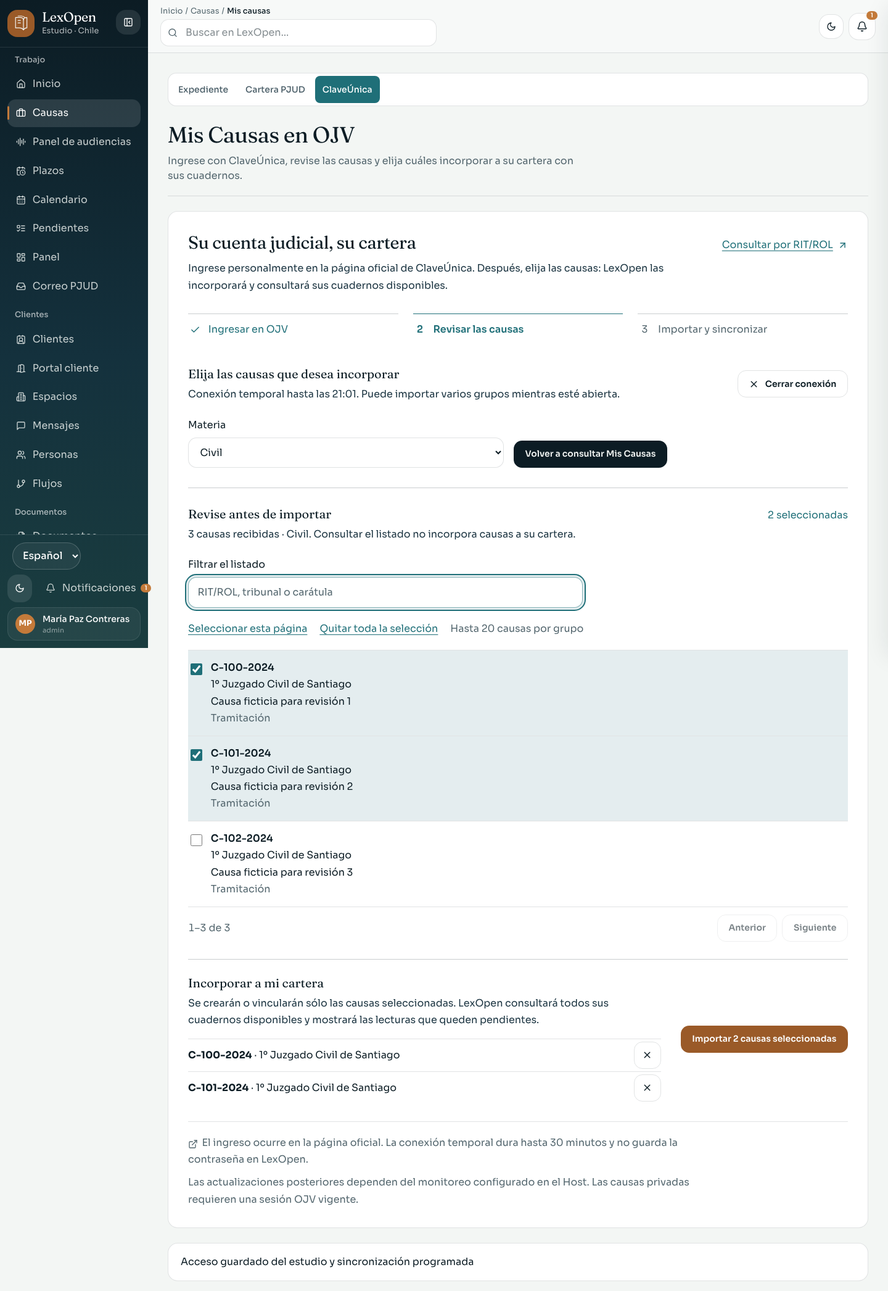
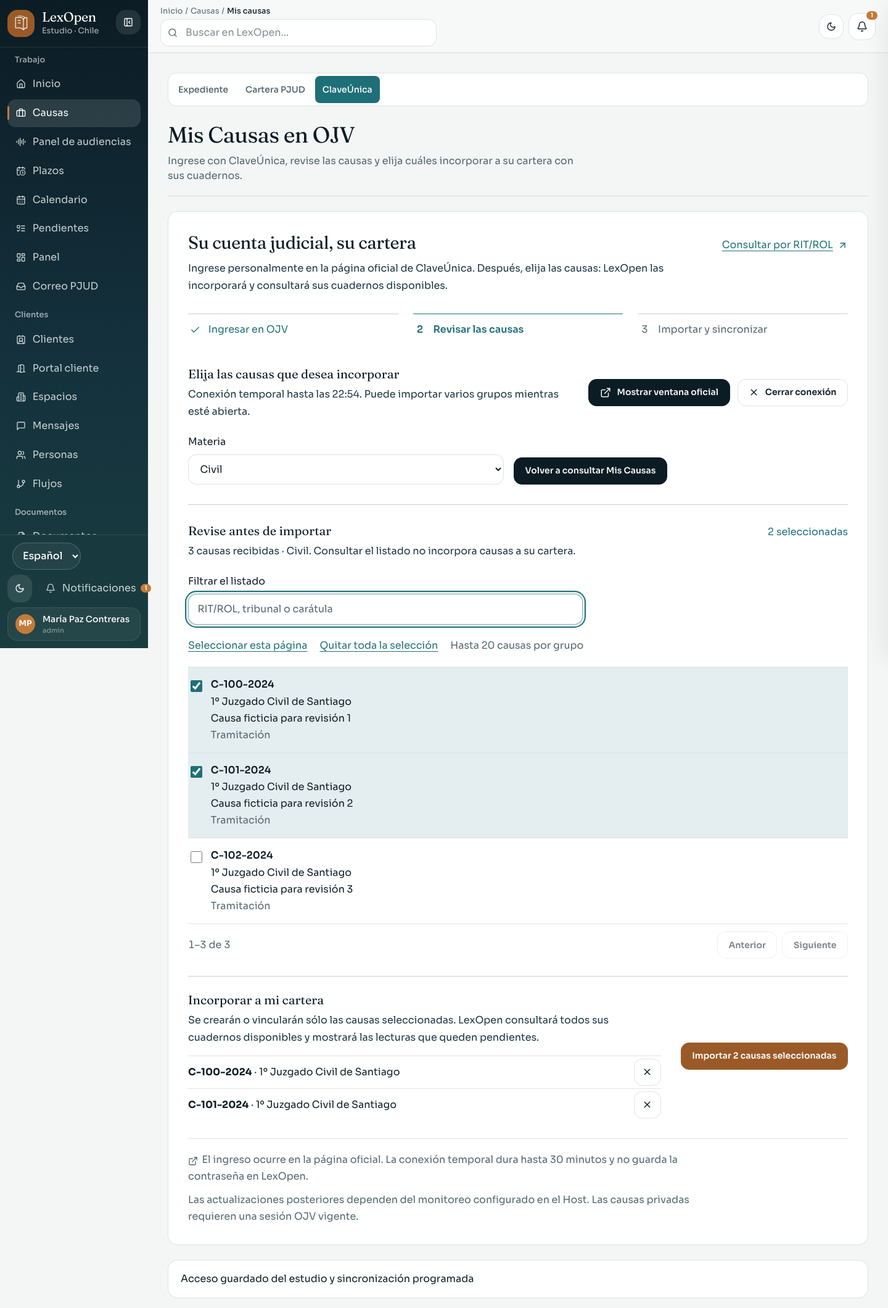
feat(pjud): reveal the official manual-session window safely

diff --git a/src/lib/pjud/manual-session-manager.test.ts b/src/lib/pjud/manual-session-manager.test.ts
@@ -16,11 +16,12 @@ const pause = (ms = 0) => new Promise(resolve => setTimeout(resolve, ms));
 async function until(check: () => boolean) { const end = Date.now() + 2_000; while (!check()) { assert(Date.now() < end, "fixture deadline"); await pause(5); } }
 
 function fixture() {
-  let closed = false, authenticated = true, factoryCalls = 0, closeCalls = 0, listCalls = 0, detailCalls = 0, syncCalls = 0, allowed = true;
+  let closed = false, authenticated = true, factoryCalls = 0, closeCalls = 0, listCalls = 0, detailCalls = 0, syncCalls = 0, focusCalls = 0, allowed = true;
   let current = fixtures.map(row => ({ ...row }));
   const browser: ManualOjvSession = {
     status: () => ({ phase: closed ? "closed" : authenticated ? "authenticated" : "waiting-login", authenticated: !closed && authenticated, channel: "chromium", createdAt: new Date().toISOString(), authenticatedAt: new Date().toISOString(), pageUrl: "https://oficinajudicialvirtual.pjud.cl/indexN.php" }),
     waitForAuthentication: async () => { authenticated = true; return browser.status(); },
+    showOfficialWindow: async () => { focusCalls++; },
     listMisCausas: async () => { listCalls++; return current.map(row => ({ ...row })); },
     fetchCausaDetail: async () => { detailCalls++; return { movimientos: [], sala: null, note: "Fictitious detail", portalUrl: "https://oficinajudicialvirtual.pjud.cl/indexN.php", cuadernos: coverage }; },
     close: async () => { closed = true; closeCalls++; },
@@ -51,7 +52,7 @@ function fixture() {
     runtimeAllowed: () => true,
     monitorMs: 10,
   } satisfies Partial<ConstructorParameters<typeof ManualOjvSessionManager>[0]>;
-  return { browser, deps, current: (value: MisCausasItem[]) => { current = value; }, expireAuthentication: () => { authenticated = false; }, revoke: () => { allowed = false; }, factoryCalls: () => factoryCalls, closeCalls: () => closeCalls, listCalls: () => listCalls, detailCalls: () => detailCalls, syncCalls: () => syncCalls };
+  return { browser, deps, current: (value: MisCausasItem[]) => { current = value; }, expireAuthentication: () => { authenticated = false; }, revoke: () => { allowed = false; }, factoryCalls: () => factoryCalls, closeCalls: () => closeCalls, listCalls: () => listCalls, detailCalls: () => detailCalls, syncCalls: () => syncCalls, focusCalls: () => focusCalls };
 }
 
 async function main() {
@@ -85,20 +86,29 @@ async function main() {
     assert.equal((await manager.status(owner))?.phase, "ready");
     assert.doesNotMatch(JSON.stringify(await manager.status(owner)), /PRIVATE_COOKIE|fingerprint|pageUrl|password/);
     await assert.rejects(manager.status(other, start.session.id), statusError(404));
+    await assert.rejects(manager.focus(other, start.session.id), statusError(404));
+    await assert.rejects(manager.focus({ ...owner, fingerprint: "different-authentication" }, start.session.id), statusError(404));
+    assert.equal(f.focusCalls(), 0, "another owner must never activate this session's window");
     await assert.rejects(manager.start(other), statusError(409));
     const both = await Promise.allSettled([manager.list(owner, start.session.id, ["Civil"]), manager.list(owner, start.session.id, ["Civil"])]);
     assert.equal(both.filter(result => result.status === "fulfilled").length, 1, "only one operation can reserve a shared page");
     const listing = both.find(result => result.status === "fulfilled")! as PromiseFulfilledResult<Awaited<ReturnType<typeof manager.list>>>;
+    await assert.rejects(manager.focus(owner, start.session.id), statusError(409));
     await listing.value.run();
     const listed = (await manager.status(owner))!;
     assert(listed.listedAt); assert.equal(listed.candidates.length, 2);
     const originalId = listed.candidates[0].id;
+    assert.deepEqual(await manager.focus(owner, start.session.id), listed, "focus preserves candidates, result, phase and expiration");
+    assert.equal(f.focusCalls(), 1);
     listed.candidates[0].rit = "MUTATED";
     assert.equal((await manager.status(owner))!.candidates[0].rit, fixtures[0].rit, "HTTP views must not mutate the server allowlist");
     await assert.rejects(manager.import(owner, start.session.id, ["unseen-client-id"]), statusError(400));
     await assert.rejects(manager.import(owner, start.session.id, [originalId, originalId]), statusError(400));
     assert.equal(f.syncCalls(), 0);
-    const imported = await manager.import(owner, start.session.id, [originalId]); await imported.run();
+    const imported = await manager.import(owner, start.session.id, [originalId]);
+    await assert.rejects(manager.focus(owner, start.session.id), statusError(409));
+    assert.equal(f.focusCalls(), 1, "listing and import reservations block focus");
+    await imported.run();
     const done = (await manager.status(owner))!;
     assert.equal(done.phase, "completed"); assert.equal(done.result?.created, 1); assert.deepEqual(done.result?.items[0].cuadernosCoverage, coverage);
     assert.equal(f.detailCalls(), 1); assert.equal(f.listCalls(), 2, "import must refresh the OJV list rather than trust an old candidate");
@@ -142,6 +152,41 @@ async function main() {
     await delayed.close(owner, start.session.id); release(opening.browser); await run;
     assert.equal(opening.closeCalls(), 1, "a browser that completes launch after cancellation must also close");
   } finally { await delayed.dispose(); }
+
+  const waiting = fixture(); waiting.expireAuthentication(); let releaseAuthentication!: () => void;
+  waiting.browser.waitForAuthentication = () => new Promise(resolve => { releaseAuthentication = () => resolve({ ...waiting.browser.status(), phase: "authenticated", authenticated: true }); });
+  const waitingManager = new ManualOjvSessionManager(waiting.deps);
+  try {
+    const start = await waitingManager.start(owner); const running = start.run(); await until(() => Boolean(releaseAuthentication));
+    const before = await waitingManager.status(owner);
+    let timeout: ReturnType<typeof setTimeout> | undefined;
+    try {
+      const shown = await Promise.race([waitingManager.focus(owner, start.session.id), new Promise<never>((_, reject) => { timeout = setTimeout(() => reject(new Error("focus was blocked by authentication")), 1_000); })]);
+      assert.deepEqual(shown, before, "showing a pending login neither authenticates nor extends its lifetime");
+    } finally { if (timeout) clearTimeout(timeout); }
+    assert.equal(waiting.focusCalls(), 1); assert.equal(waiting.factoryCalls(), 1);
+    releaseAuthentication(); await running;
+  } finally { await waitingManager.dispose(); }
+
+  const legacy = fixture(); delete legacy.browser.showOfficialWindow;
+  const legacyManager = new ManualOjvSessionManager(legacy.deps);
+  try {
+    const start = await legacyManager.start(owner); await start.run();
+    const before = await legacyManager.status(owner);
+    await assert.rejects(legacyManager.focus(owner, start.session.id), error => error instanceof ManualOjvUiError && error.status === 503 && /Vuelva a abrir LexOpen/.test(error.message));
+    assert.deepEqual(await legacyManager.status(owner), before, "an old session remains intact after an unsupported focus request");
+    assert.equal(legacy.closeCalls(), 0);
+  } finally { await legacyManager.dispose(); }
+
+  const focusFailure = fixture(); focusFailure.browser.showOfficialWindow = async () => { throw new Error("PRIVATE_UNSAFE_BROWSER_URL_AND_TOKEN"); };
+  const failureManager = new ManualOjvSessionManager(focusFailure.deps);
+  try {
+    const start = await failureManager.start(owner); await start.run();
+    await assert.rejects(failureManager.focus(owner, start.session.id), error => error instanceof ManualOjvUiError && error.status === 409 && !/PRIVATE/.test(error.message));
+    assert.equal(focusFailure.closeCalls(), 0, "a focus failure must not discard a usable login");
+    focusFailure.revoke();
+    await assert.rejects(failureManager.focus(owner, start.session.id), statusError(403));
+  } finally { await failureManager.dispose(); }
   console.log("Manual OJV manager: owner isolation, fresh allowlists, serial operations, repeat batches, revocation, expiry, cancellation and per-operation policy passed (fixtures only).");
 }
 main().catch(error => { console.error(error); process.exitCode = 1; });

diff --git a/src/lib/pjud/manual-session.dom.test.ts b/src/lib/pjud/manual-session.dom.test.ts
@@ -1,6 +1,6 @@
 /** Owned browser fixtures only. Every request is fulfilled locally; no credentials or OJV traffic. */
 import assert from "node:assert/strict";
-import { chromium } from "playwright";
+import { chromium, type Page } from "playwright";
 import { createManualOjvSession, ManualOjvSessionError } from "@/lib/pjud/manual-session";
 import { OJV_INDEX_N } from "@/lib/pjud/ojv-dom";
 import type { PjudCausaRef } from "@/lib/pjud/types";
@@ -38,8 +38,13 @@ async function fixture(emptyLogin = false, menuDelayMs = 0) {
   const context = await browser.newContext();
   let accountsVisits = 0;
   let documentRequests = 0;
+  const focusedPages: Page[] = [];
   const scriptErrors: string[] = [];
-  context.on("page", page => page.on("pageerror", error => scriptErrors.push(error.message)));
+  context.on("page", page => {
+    page.on("pageerror", error => scriptErrors.push(error.message));
+    const show = page.bringToFront.bind(page);
+    page.bringToFront = async () => { focusedPages.push(page); await show(); };
+  });
   await context.route("**/*", async route => {
     const url = new URL(route.request().url());
     if (url.pathname.endsWith(".pdf")) documentRequests += 1;
@@ -49,7 +54,7 @@ async function fixture(emptyLogin = false, menuDelayMs = 0) {
       ? emptyLogin ? '<h1>PJUD</h1>' : '<h1>PJUD</h1><input name="run"><input type="password" placeholder="Ingresa tu ClaveÚnica">'
       : '<h1>OJV</h1><script>function AutenticaCUnica(){location.href="https://accounts.claveunica.gob.cl/accounts/login/?next=PRIVATE_OIDC#PRIVATE"}</script>' });
   });
-  return { browser, context, owned: { browser, context, channel: "chromium" as const }, accountsVisits: () => accountsVisits, documentRequests: () => documentRequests, scriptErrors: () => scriptErrors };
+  return { browser, context, owned: { browser, context, channel: "chromium" as const }, accountsVisits: () => accountsVisits, documentRequests: () => documentRequests, scriptErrors: () => scriptErrors, focusedPages: () => [...focusedPages] };
 }
 
 async function main() {
@@ -154,6 +159,53 @@ async function main() {
     } finally {
       await delayed.close();
     }
+
+    const focusFixture = await fixture();
+    const focusSession = await createManualOjvSession({ optedIn: true, loginTimeoutMs: 5_000 }, { createOwnedContext: async () => focusFixture.owned });
+    try {
+      const page = focusFixture.context.pages()[0];
+      assert.deepEqual(focusFixture.focusedPages(), [page], "the ready official form is activated when its owned session opens");
+      const waiting = focusSession.waitForAuthentication();
+      let timeout: ReturnType<typeof setTimeout> | undefined;
+      try {
+        await Promise.race([focusSession.showOfficialWindow!(), new Promise<never>((_, reject) => { timeout = setTimeout(() => reject(new Error("focus queued behind authentication")), 1_500); })]);
+      } finally { if (timeout) clearTimeout(timeout); }
+      assert.equal(focusSession.status().phase, "waiting-login");
+      assert.equal(focusSession.status().authenticated, false, "activating an official tab is not authentication");
+      assert.equal(focusFixture.accountsVisits(), 1, "focus must not open another login or navigate");
+      await page.goto(OJV_INDEX_N); await waiting;
+      const items = await focusSession.listMisCausas({ materias: ["Corte Suprema"], responseTimeoutMs: 500 });
+      const before = focusSession.status(); await focusSession.showOfficialWindow!();
+      assert.deepEqual(focusSession.status(), before, "focus preserves the authenticated session and its creation time");
+      assert.equal((await focusSession.fetchCausaDetail(cause)).movimientos.length, 1, "focus preserves the checked cause allowlist");
+      assert.equal(items.length, 1); assert.equal(focusFixture.documentRequests(), 0);
+      // An unrelated page is never activated, even when it is the newest tab.
+      const unrelated = await focusFixture.context.newPage(); await unrelated.goto("https://unrelated.invalid");
+      await focusSession.showOfficialWindow!();
+      assert.equal(focusFixture.focusedPages().at(-1), page);
+      await page.goto("https://unrelated.invalid");
+      const focused = focusFixture.focusedPages().length;
+      await assert.rejects(focusSession.showOfficialWindow!(), error => error instanceof ManualOjvSessionError && error.code === "window-unavailable");
+      assert.equal(focusFixture.focusedPages().length, focused, "a context without an official page must not fall back to another site");
+    } finally { await focusSession.close(); }
+    await assert.rejects(focusSession.showOfficialWindow!(), error => error instanceof ManualOjvSessionError && error.code === "session-closed");
+
+    const returningFixture = await fixture();
+    const returningSession = await createManualOjvSession({ optedIn: true }, { createOwnedContext: async () => returningFixture.owned });
+    try {
+      const login = returningFixture.context.pages()[0];
+      const callback = await returningFixture.context.newPage(); await callback.goto(OJV_INDEX_N);
+      await returningSession.waitForAuthentication();
+      await returningSession.listMisCausas({ materias: ["Corte Suprema"], responseTimeoutMs: 500 });
+      await returningSession.showOfficialWindow!();
+      assert.equal(returningFixture.focusedPages().at(-1), callback, "the identified callback wins while it remains authenticated");
+      await callback.locator('a[href="#infousuario"]').evaluate(node => { node.textContent = "Invitado"; });
+      const before = returningSession.status();
+      await returningSession.showOfficialWindow!();
+      assert.equal(returningFixture.focusedPages().at(-1), login, "an old OJV guest page must not obscure the owned login form");
+      assert.deepEqual(returningSession.status(), before, "choosing a visible window never changes authentication or its lifetime");
+      assert.equal(returningFixture.accountsVisits(), 1); assert.equal(returningFixture.documentRequests(), 0);
+    } finally { await returningSession.close(); }
 
     const timeoutFixture = await fixture();
     const timed = await createManualOjvSession({ optedIn: true, loginTimeoutMs: 100 }, { createOwnedContext: async () => timeoutFixture.owned });

diff --git a/src/lib/pjud/manual-session.ts b/src/lib/pjud/manual-session.ts
@@ -20,12 +20,13 @@ import type { MisCausasItem, PjudCausaRef } from "@/lib/pjud/types";
 import { withManualPjudInteraction } from "@/lib/pjud/manual-interaction-policy";
 
 type SessionPhase = "waiting-login" | "waiting-user-confirmation" | "authenticated" | "closed";
-type ErrorCode = "disabled" | "manual-policy-required" | "login-unavailable" | "not-authenticated" | "login-timeout" | "operation-timeout" | "session-closed" | "aborted" | "action-failed" | "cause-not-listed" | "invalid-materias" | "result-limit";
+type ErrorCode = "disabled" | "manual-policy-required" | "login-unavailable" | "window-unavailable" | "not-authenticated" | "login-timeout" | "operation-timeout" | "session-closed" | "aborted" | "action-failed" | "cause-not-listed" | "invalid-materias" | "result-limit";
 
 const messages: Record<ErrorCode, string> = {
   disabled: "La consulta OJV de esta sesión está deshabilitada.",
   "manual-policy-required": "La validación requiere confirmaciones y CAPTCHA manuales, con las descargas de documentos desactivadas.",
   "login-unavailable": "No se pudo abrir el formulario oficial de ClaveÚnica para esta sesión temporal.",
+  "window-unavailable": "No se pudo activar la ventana oficial de esta conexión. Vuelva a intentarlo o abra una nueva conexión.",
   "not-authenticated": "Complete el ingreso manual y regrese a Mis Causas antes de continuar.",
   "login-timeout": "Terminó el tiempo disponible para completar el ingreso manual.",
   "operation-timeout": "La lectura OJV no terminó dentro del tiempo disponible.",
@@ -96,6 +97,8 @@ export type ManualOjvSessionStatus = {
 
 export type ManualOjvSession = {
   status(): ManualOjvSessionStatus;
+  /** Optional for an already open session created before a Host development reload. */
+  showOfficialWindow?(): Promise<void>;
   waitForAuthentication(): Promise<ManualOjvSessionStatus>;
   listMisCausas(options?: Pick<MisCausasReadOptions, "materias" | "responseTimeoutMs">): Promise<MisCausasItem[]>;
   fetchCausaDetail(causa: PjudCausaRef, options?: Pick<MisCausasReadOptions, "materias" | "responseTimeoutMs">): Promise<ScrapeLookupResult>;
@@ -221,6 +224,22 @@ class OwnedManualSession implements ManualOjvSession {
     if (this.phase === "closed") throw new ManualOjvSessionError("session-closed");
   }
 
+  /** Focusing must not wait behind a pending manual login in the read queue. */
+  async showOfficialWindow() {
+    this.active();
+    const pages = this.owned.context.pages();
+    const official = (page: Page) => !page.isClosed() && (isOjvSessionUrl(page.url()) || isClaveUnicaAccountsUrl(page.url()));
+    const authenticated = this.authenticatedPage && pages.includes(this.authenticatedPage) && official(this.authenticatedPage) && await identifiedPage(this.authenticatedPage) ? this.authenticatedPage : null;
+    this.active();
+    const preferred = authenticated || (pages.includes(this.loginPage) && official(this.loginPage) ? this.loginPage : null);
+    const page = preferred || [...pages].reverse().find(official);
+    if (!page) throw new ManualOjvSessionError("window-unavailable");
+    try { await page.bringToFront(); }
+    catch { throw new ManualOjvSessionError("window-unavailable"); }
+    this.active();
+    if (!official(page)) throw new ManualOjvSessionError("window-unavailable");
+  }
+
   private async serial<T>(work: () => Promise<T>, timeout: number, timeoutCode: "login-timeout" | "operation-timeout", operation?: SessionReadOperation): Promise<T> {
     const pending = this.queue.then(async () => {
       let timer: ReturnType<typeof setTimeout> | undefined;
@@ -338,6 +357,7 @@ async function createManualOjvSessionOwned(options: ManualOjvSessionOptions, dep
     }
     if (!formReady) throw new ManualOjvSessionError("login-unavailable");
     assertRuntime(options);
+    await session.showOfficialWindow();
     return session;
   } catch (error) {
     if (session) await session.close();

diff --git a/src/components/pjud/PjudManualSessionPanel.tsx b/src/components/pjud/PjudManualSessionPanel.tsx
@@ -129,7 +129,7 @@ export function PjudManualSessionPanel() {
     };
   }, []);
 
-  async function act(action: "start" | "list" | "import" | "close") {
+  async function act(action: "start" | "list" | "import" | "focus" | "close") {
     if (pending.current) return;
     if (action === "import" && (!selected.size || selected.size > (data?.capabilities.importLimit ?? 20))) return;
     const controller = new AbortController();
@@ -163,6 +163,7 @@ export function PjudManualSessionPanel() {
   const connectionOpen = Boolean(session && session.phase !== "closed");
   const canResume = Boolean(connectionOpen && !session?.authenticated && (session?.phase === "error" || session?.phase === "completed"));
   const backgroundBusy = session?.phase === "opening" || session?.phase === "listing" || session?.phase === "importing";
+  const canShowWindow = connectionOpen && !backgroundBusy;
   const canRead = Boolean(session?.authenticated && !backgroundBusy && session.phase !== "closed");
   const limit = data?.capabilities.importLimit ?? 20;
   const pageSize = Math.max(1, Math.min(limit, 20));
@@ -234,12 +235,13 @@ export function PjudManualSessionPanel() {
         <div className="pjud-manual-connection-copy"><h3>{phaseLabel(session)}</h3>
           {!connectionOpen && <p>La contraseña se escribe sólo en ClaveÚnica. Esta conexión temporal permite revisar las causas antes de incorporarlas al estudio.</p>}
           {session?.phase === "opening" && <p>Se está preparando una ventana del navegador en este equipo. Espere a que aparezca el formulario con el encabezado PJUD.</p>}
-          {awaitingUser && <p>Continúe en la ventana oficial con el encabezado PJUD. Complete allí su identificación y cualquier confirmación del portal. LexOpen detectará su regreso a la OJV.</p>}
+          {awaitingUser && <p>Continúe en la ventana temporal abierta por LexOpen, distinta de su navegador habitual, con el encabezado PJUD. Complete allí su identificación y cualquier confirmación del portal. El ingreso dispone de hasta 15 minutos. LexOpen detectará su regreso a la OJV.</p>}
           {canRead && <p>Conexión temporal{expires && !Number.isNaN(expires.getTime()) ? ` hasta las ${expires.toLocaleTimeString("es-CL", { hour: "2-digit", minute: "2-digit", hourCycle: "h23", timeZone: "America/Santiago" })}` : ""}. Puede importar varios grupos mientras esté abierta.</p>}
           {session?.error && <p className="pjud-manual-error" role="alert">{session.error}</p>}
         </div>
         <div className="pjud-manual-actions">
           {(!connectionOpen || canResume) && <button className="btn btn-primary" type="button" disabled={!canStart || Boolean(busy) || loading} onClick={() => void act("start")}><LogIn size={18} aria-hidden="true" />{busy === "start" ? "Preparando ingreso…" : canResume ? "Reanudar ingreso con ClaveÚnica" : "Ingresar con ClaveÚnica"}</button>}
+          {canShowWindow && <button className="btn btn-secondary" type="button" disabled={!canStart || Boolean(busy) || loading} onClick={() => void act("focus")}><ExternalLink size={18} aria-hidden="true" />{busy === "focus" ? "Mostrando ventana…" : "Mostrar ventana oficial"}</button>}
           {connectionOpen && <button className="btn btn-ghost" type="button" disabled={Boolean(busy)} onClick={() => void act("close")}><X size={17} aria-hidden="true" />{session?.phase === "importing" ? "Detener y cerrar conexión" : "Cerrar conexión"}</button>}
         </div>
       </div>

diff --git a/src/lib/pjud/manual-session-request.test.ts b/src/lib/pjud/manual-session-request.test.ts
@@ -2,6 +2,7 @@ import assert from "node:assert/strict";
 import { randomUUID } from "node:crypto";
 import { NextRequest } from "next/server";
 import { manualOjvLocalRequest, manualOjvQuerySession, parseManualOjvRequest } from "@/lib/pjud/manual-session-request";
+import { POST } from "@/app/api/pjud/manual-session/route";
 
 function request(body: unknown) { return new Request("http://localhost:3000/api/pjud/manual-session", { method: "POST", headers: { host: "localhost:3000", origin: "http://localhost:3000", "content-type": "application/json" }, body: JSON.stringify(body) }); }
 async function main() {
@@ -15,15 +16,21 @@ async function main() {
   assert.equal(manualOjvLocalRequest(new Request("http://localhost:3000/api/pjud/manual-session", { headers: { host: "localhost:3000", "sec-fetch-site": "cross-site" } })), false);
   assert.equal(manualOjvLocalRequest(new Request("http://[::1]:3000/api/pjud/manual-session", { headers: { host: "[::1]:3000", referer: "http://[::1]:3000/causas/mis-causas" } })), true);
   assert.deepEqual(await parseManualOjvRequest(request({ action: "start" })), { action: "start" });
+  assert.deepEqual(await parseManualOjvRequest(request({ action: "focus", sessionId: id })), { action: "focus", sessionId: id });
   assert.deepEqual(await parseManualOjvRequest(request({ action: "list", sessionId: id, materias: ["Civil"] })), { action: "list", sessionId: id, materias: ["Civil"] });
   for (const body of [
     { action: "start", password: "PRIVATE_PASSWORD" }, { action: "start", cookies: [] },
+    { action: "focus" }, { action: "focus", sessionId: "not-a-uuid" },
+    { action: "focus", sessionId: id, url: "https://external.invalid" },
+    { action: "focus", sessionId: id, cookies: [] },
     { action: "import", sessionId: id, candidateIds: [randomUUID()], html: "PRIVATE_HTML" },
     { action: "import", sessionId: id, candidateIds: [id, id] },
     { action: "list", sessionId: id, materias: ["arbitrary"] },
     { action: "import", sessionId: id, candidateIds: Array.from({ length: 21 }, () => randomUUID()) },
     { action: "sync", sessionId: id, causaId: "arbitrary-database-id" },
   ]) await assert.rejects(parseManualOjvRequest(request(body)));
+  const crossOrigin = await POST(new NextRequest("http://localhost:3000/api/pjud/manual-session", { method: "POST", headers: { host: "localhost:3000", origin: "https://external.invalid", "content-type": "application/json" }, body: JSON.stringify({ action: "focus", sessionId: id }) }));
+  assert.equal(crossOrigin.status, 403, "the focus mutation must reject CSRF before authentication or database access");
   const stream = new ReadableStream<Uint8Array>({ start(controller) { controller.enqueue(new TextEncoder().encode("x".repeat(16_385))); controller.close(); } });
   await assert.rejects(parseManualOjvRequest(new Request("http://localhost:3000/api/pjud/manual-session", { method: "POST", body: stream, duplex: "half" } as RequestInit)), (error: unknown) => Boolean(error && typeof error === "object" && "status" in error && error.status === 413));
   assert.equal(manualOjvQuerySession(new Request(`http://localhost/api/pjud/manual-session?sessionId=${id}`)), id);

diff --git a/src/lib/pjud/manual-session-manager.ts b/src/lib/pjud/manual-session-manager.ts
@@ -154,6 +154,22 @@ export class ManualOjvSessionManager {
     return this.snapshot(record);
   }
 
+  async focus(owner: ManualOjvOwner, id: string) {
+    const record = await this.owned(owner, id);
+    if (!record || record.view.phase === "closed" || !record.browser) throw new ManualOjvUiError("La conexión temporal no tiene una ventana disponible. Abra una nueva conexión.");
+    if (record.operation || ["listing", "importing"].includes(record.view.phase)) throw new ManualOjvUiError("Espere a que termine la consulta o importación antes de mostrar la ventana oficial.");
+    const browser = this.browser(record);
+    if (browser.status().phase === "closed") { await this.closeRecord(record); throw new ManualOjvUiError("La ventana temporal fue cerrada. Abra una nueva conexión."); }
+    if (typeof browser.showOfficialWindow !== "function") throw new ManualOjvUiError("Vuelva a abrir LexOpen y cree una nueva conexión para mostrar la ventana oficial.", 503);
+    try { await browser.showOfficialWindow(); }
+    catch (error) {
+      await this.active(record);
+      throw new ManualOjvUiError(error instanceof ManualOjvSessionError ? error.message : "No se pudo activar la ventana oficial de esta conexión. Vuelva a intentarlo.");
+    }
+    await this.active(record);
+    return this.snapshot(record);
+  }
+
   async start(owner: ManualOjvOwner): Promise<ManualOjvPendingAction> {
     if (this.deps.now() >= owner.authExpiresAt || !this.deps.runtimeAllowed()) throw new ManualOjvUiError("El ingreso manual requiere una sesión vigente en el Host local.", 403);
     await this.deps.authorize(owner);

diff --git a/src/lib/pjud/manual-session-request.ts b/src/lib/pjud/manual-session-request.ts
@@ -8,6 +8,7 @@ const uuid = z.string().uuid("La identificación de la conexión no es válida."
 const candidateId = z.string().uuid("La selección no es válida. Consulte nuevamente Mis Causas.");
 const schema = z.discriminatedUnion("action", [
   z.object({ action: z.literal("start") }).strict("La solicitud contiene campos no admitidos."),
+  z.object({ action: z.literal("focus"), sessionId: uuid }).strict("La solicitud contiene campos no admitidos."),
   z.object({ action: z.literal("list"), sessionId: uuid, materias: z.array(z.enum(MANUAL_OJV_MATERIAS, { errorMap: () => ({ message: "Seleccione una materia disponible." }) })).min(1, "Seleccione una materia para consultar.").max(MANUAL_OJV_MATERIAS.length).optional() }).strict("La solicitud contiene campos no admitidos."),
   z.object({ action: z.literal("import"), sessionId: uuid, candidateIds: z.array(candidateId).min(1, "Seleccione al menos una causa.").max(MANUAL_OJV_IMPORT_LIMIT, `Seleccione hasta ${MANUAL_OJV_IMPORT_LIMIT} causas por operación.`).refine(ids => new Set(ids).size === ids.length, "La selección contiene causas repetidas") }).strict("La solicitud contiene campos no admitidos."),
   z.object({ action: z.literal("close"), sessionId: uuid }).strict("La solicitud contiene campos no admitidos."),

diff --git a/src/app/api/pjud/manual-session/route.ts b/src/app/api/pjud/manual-session/route.ts
@@ -47,6 +47,11 @@ export async function POST(request: NextRequest) {
     if (!capabilities.allowed) throw new ManualOjvUiError(capabilities.reason!, 403);
     if (!capabilities.available) throw new ManualOjvUiError(capabilities.reason!, 503);
     await writeAuditStrict({ actorId: user.id, action: `pjud.manual.${body.action}`, entityType: "manual_ojv_session", after: { stage: "requested", ...(body.action === "import" ? { selected: body.candidateIds.length } : {}) } });
+    if (body.action === "focus") {
+      // A development reload can retain an older manager and its live browser.
+      if (typeof manualOjvSessions.focus !== "function") throw new ManualOjvUiError("Vuelva a abrir LexOpen y cree una nueva conexión para mostrar la ventana oficial.", 503);
+      return json({ capabilities, session: await manualOjvSessions.focus(owner, body.sessionId) });
+    }
     const pending = body.action === "start" ? await manualOjvSessions.start(owner)
       : body.action === "list" ? await manualOjvSessions.list(owner, body.sessionId, body.materias)
         : await manualOjvSessions.import(owner, body.sessionId, body.candidateIds);

diff --git a/docs/PJUD.md b/docs/PJUD.md
@@ -20,14 +20,14 @@ La [ampliación de interfaz y cuadernos](ojv-interfaz-2026-11-03/README.md) docu
 
 Esta vía requiere abrir LexOpen desde el propio **Host**, mediante `localhost`, `127.0.0.1` o `::1`. Para el Host web active `PJUD_MANUAL_SESSION=1`; Desktop en modo Host también la habilita. Requiere `PJUD_PUBLIC_SCRAPE=1`, Playwright/Chromium y un navegador con ventana visible. En Linux necesita `DISPLAY` o `WAYLAND_DISPLAY`. `PJUD_CLAVEUNICA_SCRAPE=0` impide el ingreso manual aunque los demás requisitos estén presentes. Acceder desde otro equipo por LAN o Tailscale no habilita esta ventana local.
 
-1. Pulse **Ingresar con ClaveÚnica** y complete personalmente la identificación y las confirmaciones del portal en la ventana oficial.
+1. Pulse **Ingresar con ClaveÚnica**. **Mostrar ventana oficial** activa la pestaña temporal abierta por LexOpen; úsela para distinguirla de la OJV abierta en su navegador habitual. Complete personalmente allí la identificación y las confirmaciones del portal.
 2. En LexOpen, consulte **Mis Causas**, para todas las materias disponibles o una materia concreta. Revise el listado, busque y seleccione hasta **20 causas por grupo**. La selección se conserva al filtrar o cambiar de página.
 3. Pulse **Importar**. LexOpen vuelve a comprobar la selección en OJV, crea o vincula las causas elegidas y consulta sus cuadernos. El resultado distingue causas creadas o vinculadas, lecturas completas, parciales y fallidas.
 4. **Continuar con otras causas** vuelve al paso de revisión y conserva el recibo anterior en un desplegable. Puede importar varios grupos mientras siga vigente la conexión.
 
-Sólo hay una ventana manual activa por Host. La conexión dura como máximo **30 minutos** y pertenece al profesional y a su sesión concreta de LexOpen: se comprueban la identidad, la huella de la cookie, la versión y el vencimiento de sesión, los permisos vigentes de Mis Causas y la política de doble factor. Otra sesión de LexOpen no puede utilizar su conexión; las pestañas que comparten la misma sesión pueden consultar su estado.
+Sólo hay una ventana manual activa por Host. El ingreso inicial dispone de hasta **15 minutos**; la conexión completa dura como máximo **30 minutos** desde su apertura. Pertenece al profesional y a su sesión concreta de LexOpen: se comprueban la identidad, la huella de la cookie, la versión y el vencimiento de sesión, los permisos vigentes de Mis Causas y la política de doble factor. Otra sesión de LexOpen no puede utilizar su conexión; las pestañas que comparten la misma sesión pueden consultar su estado. Activar la ventana no prolonga el plazo ni acredita que el ingreso se haya completado.
 
-La contraseña se escribe sólo en el formulario oficial. En esta vía no se envían contraseñas ni cookies OJV a la interfaz ni se guardan en el vault; el contexto temporal del navegador queda en el Host. La interfaz recibe identificadores opacos de las causas verificadas, estados y resultados. `GET /api/pjud/manual-session` consulta el estado; `POST` acepta únicamente `start`, `list`, `import` y `close`, con permisos, protección CSRF y límites por profesional.
+La contraseña se escribe sólo en el formulario oficial. En esta vía no se envían contraseñas ni cookies OJV a la interfaz ni se guardan en el vault; el contexto temporal del navegador queda en el Host. La interfaz recibe identificadores opacos de las causas verificadas, estados y resultados. `GET /api/pjud/manual-session` consulta el estado; `POST` acepta únicamente `start`, `focus`, `list`, `import` y `close`, con permisos, protección CSRF y límites por profesional. La activación de la pestaña se permite fuera de las operaciones de lectura e importación y sólo dentro del contexto temporal que pertenece a esa sesión.
 
 Cerrar la conexión, vencer el plazo, perder autorización o reiniciar el Host impide seguir usando esa sesión temporal. Al salir de la página se detiene la consulta de estado y se cierra una conexión de lectura; una importación ya aceptada continúa en el Host dentro de su plazo. **Detener y cerrar conexión** puede dejar causas ya guardadas: revíselas antes de reintentar. La importación manual no descarga anexos PDF.
 

diff --git a/docs/ojv-interfaz-2026-11-03/README.md b/docs/ojv-interfaz-2026-11-03/README.md
@@ -6,6 +6,8 @@ Entrega del 3 de noviembre de 2026. Amplía las pantallas existentes de Mis Caus
 
 En **Causas → ClaveÚnica**, el profesional abre el formulario oficial desde el Host local, completa personalmente el ingreso y vuelve a LexOpen para consultar Mis Causas. Puede filtrar por materia, buscar, revisar y elegir hasta veinte causas por grupo. Consultar el listado no incorpora causas. La importación comprueba de nuevo la selección, crea o vincula expedientes y consulta los cuadernos disponibles.
 
+**Mostrar ventana oficial** activa la pestaña temporal abierta por LexOpen para distinguirla de la OJV del navegador habitual. Conserva la selección, el recibo y el plazo de la conexión; activar la pestaña no acredita un ingreso ni abre otra sesión. La acción no se ofrece durante apertura, consulta o importación. El ingreso inicial dispone de hasta quince minutos y la conexión completa de hasta treinta desde su apertura.
+
 El resultado aparece antes del listado y recibe foco una sola vez al terminar la importación iniciada desde esa pantalla. **Continuar con otras causas** vuelve al paso de revisión y conserva el recibo anterior en un desplegable. El acceso guardado del estudio sigue en un apartado separado.
 
 La consulta pública y la importación manual muestran cuántos cuadernos se leyeron, cuáles están incompletos y qué movimientos corresponden a cada uno. La cartera y el expediente conservan la cobertura de la última consulta. Los movimientos históricos sin cuaderno conocido permanecen separados. Una lectura parcial conserva lo recuperado y pide reintento.
@@ -35,6 +37,10 @@ Las seis imágenes proceden de la interfaz local con respuestas ficticias interc
 **Backend y conservación.** Pasaron las pruebas de cobertura, transporte acotado, pertenencia de la sesión, solicitudes, permisos, cierre y vencimiento; las cuatro suites de navegador del conector usan fixtures locales. Las comprobaciones con PostgreSQL desechable cubren persistencia de cobertura, conservación histórica, migración e idempotencia, además de la reserva de trabajos `manual-session` frente al cron y a reintentos ordinarios. Los límites de 10.000 movimientos, 100 cuadernos y 20 MiB mantienen un resultado parcial explícito.
 
 **Comprobaciones generales.** La suite general, lint, tipos y compilación de producción pasaron. La revisión visual independiente terminó con **disposition: ship** tras resolver la llegada al resultado con foco único, la vuelta al paso de revisión con recibo anterior y el registro durable de estas decisiones en el [brief de la superficie](../../.impeccable/surfaces/src-components-pjud-pjudquickaddpanel-tsx.md). No se reemplazó el sistema visual global.
+
+**Identificación de la ventana temporal.** En un intento posterior desde la interfaz se abrió el formulario oficial y se detectó inicialmente el ingreso, pero la comprobación previa a consultar Mis Causas dejó de reconocer una página identificada. El listado no se confirmó y no se importaron causas. La causa de esa transición no está determinada; este intento no se presenta como una validación privada completa. Se añadió **Mostrar ventana oficial** para activar la pestaña del contexto propio, manteniendo la selección, el resultado y el vencimiento. Diez pruebas dirigidas de ingreso manual y navegación pasaron con respuestas ficticias, incluidos el enfoque durante la espera, la conservación del estado y un fallo recuperable al activar la ventana. Las capturas de selección y resultado se actualizaron con esos mismos datos ficticios.
+
+El [control real del botón de ventana](control-ventana-oficial.json) abrió el formulario oficial desde LexOpen y aceptó la activación sin error, conservando el estado de espera y sin iniciar otra conexión. Esta comprobación no acredita autenticación, consulta ni importación privadas.
 
 ## Límites de esta entrega
 

diff --git a/.impeccable/surfaces/src-components-pjud-pjudquickaddpanel-tsx.md b/.impeccable/surfaces/src-components-pjud-pjudquickaddpanel-tsx.md
@@ -50,6 +50,8 @@ Consultar el listado no incorpora causas. La selección se conserva al filtrar y
 
 El resultado de la importación ocupa el lugar inmediato del listado, anuncia sus recuentos y recibe foco una sola vez cuando termina la operación iniciada desde esta pantalla. Continuar con otras causas devuelve el recorrido a Revisar y conserva el resultado anterior como un recibo desplegable. No se repite el desplazamiento con la consulta periódica de estado.
 
+Mostrar ventana oficial activa la pestaña temporal que abrió LexOpen y explica que es distinta del navegador habitual del profesional. La acción conserva selección, recibo y plazo; no acredita autenticación. Se ofrece cuando la conexión está abierta y fuera de apertura, lectura e importación. Sigue la jerarquía y los controles existentes, sin introducir un sistema visual nuevo.
+
 La consulta RIT/ROL, el resultado manual, la cartera y el expediente comparten la cobertura por cuaderno: completo sólo cuando se leyeron todos los enumerados, parcial cuando quedan fallos o límites, y sin comprobar cuando no se pudo enumerar. Cada fila conserva su cuaderno y los legados sin atribución se muestran separados; no se convierten en Principal. Las claves visibles son estables y no contienen valores de sesión del portal.
 
 A 360 píxeles, controles y filas se reorganizan en una columna y las acciones mantienen una altura de 44 píxeles. Los indicadores de actividad y cambios de paso respetan movimiento reducido. Se conservan los tamaños auxiliares de pjud-lookup.css; las advertencias mecánicas de rampa tipográfica se evaluaron como continuidad del patrón, sin silenciar reglas.
